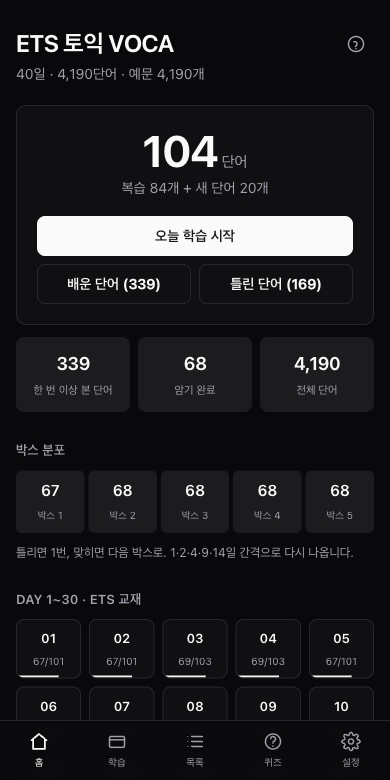
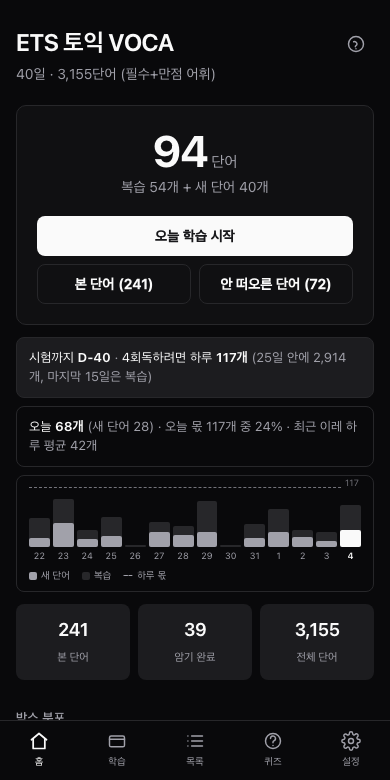
가이드를 지금 앱에 맞췄다
본문 열 곳. 학습 탭이 하던 것으로 돌아간다는 것, 길게 누르기 항목 넷,
목록 방식에서 매긴 줄이 흐려지고 눌렀던 버튼이 남는다는 것과 모름 횟수
태그, 홈의 박스 칸이 목록의 박스 필터로 열린다는 것, 목록의 박스 1~5가
겹쳐 골라진다는 것. 낡은 표현을 걷어냈다. '박스 3 ×' 태그는 이제 박스
버튼이고, '✕2 오답 횟수'는 '모름 2'이고, 음성 시험 버튼은 목소리 수를
알려 주지 않는다. 수치도 맞췄다. 필수 1,662, 추가 1,032, mp3 24MB.

스크린샷 열네 장을 다시 찍었다. 목록 화면은 등급 토글이 아니라 박스
필터를 보여 주고, 카드 화면에는 카드·목록 전환이 있고, 설정에는 음성
진단 줄이 없다. 목록 방식 화면을 새로 넣었다. 매긴 줄 둘과 펼친 줄 하나.
라이트·다크 쌍은 같은 세션에서 data-theme만 바꿔 찍어 단어가 같다.

실제로 쓴 것처럼 보이도록 진도 241개와 2주 기록, 시험일 D-40을 불러오기로
심고 찍었다. 스크린샷은 gstack 브라우저의 --viewport로 390×780.

Claude-Session: https://claude.ai/code/session_018rRY3VEJffFBosdHRxrs2Q

diff --git a/docs/guide.html b/docs/guide.html
@@ -123,7 +123,7 @@ footer a { color:inherit; }
 <p class="lead"><b>ETS 토익 기출 보카</b> DAY 1~30을 그대로 옮긴 앱입니다.
 교재의 <b>필수 어휘</b> · <b>토익 만점 완성</b> 두 단 구성을 따르고, 겹치지 않는 어휘를 추가로 얹었습니다.</p>
 <table class="lead-table">
-  <tr><td><b>DAY 1~30</b></td><td>ETS 토익 기출 보카 · 필수 1,665 + 만점 1,493</td></tr>
+  <tr><td><b>DAY 1~30</b></td><td>ETS 토익 기출 보카 · 필수 1,662 + 만점 1,493</td></tr>
   <tr><td><b>DAY 31~40</b></td><td>추가 어휘 1,032</td></tr>
 </table>
 
@@ -168,8 +168,9 @@ footer a { color:inherit; }
   <b>길게 눌러 전체 다시 보기</b>를 고르세요.</p>
   <p><b>&rsaquo;로 건너뛴 카드는 기록이 남지 않습니다.</b> 그래서 다음에 그 DAY를 누르면
   또 나옵니다. 세션을 끝내면 몇 장을 건너뛰었는지 알려 줍니다.</p>
-  <p>중간에 그만둬도 <b>멈춘 자리부터</b> 이어집니다.
-  DAY를 <b>길게 누르면</b> 전체 다시 보기 · 목록으로 훑기 · 그 DAY만 진도 초기화를 고를 수 있습니다.</p>
+  <p>중간에 그만둬도 <b>멈춘 자리부터</b> 이어집니다. 아래 <b>학습</b> 탭은 하던 것으로 돌아가는 버튼입니다 —
+  DAY 04를 하다 나왔으면 DAY 04로, 하던 게 없으면 오늘 학습을 시작합니다.
+  DAY를 <b>길게 누르면</b> 이어서 외우기 · 전체 다시 보기 · 목록에서 훑어보기 · 그 DAY만 진도 초기화를 고를 수 있습니다.</p>
 </section>
 
 <section id="card">
@@ -179,8 +180,11 @@ footer a { color:inherit; }
     <li><b>카드</b> — 한 장씩. 뒤집어 확인하고 매깁니다. 모름·애매는 몇 장 뒤에 다시 나옵니다.</li>
     <li><b>목록</b> — 단어만 죽 보입니다. 떠올린 뒤 줄을 누르면 뜻·예문이 펼쳐지고
       그 자리에서 <b>모름 · 애매 · 안다 · 이미 앎</b>을 매깁니다. 잘못 눌렀으면 같은 줄의
-      다른 등급을 누르면 됩니다. 앞의 채점을 되돌리고 새로 매깁니다.</li>
+      다른 등급을 누르면 됩니다. 앞의 채점을 되돌리고 새로 매깁니다.
+      매긴 줄은 흐려지고 눌렀던 버튼이 켜진 채 남습니다. 앱을 껐다 켜도 그대로입니다.
+      전에 모름을 누른 적 있는 단어에는 <b>모름 2</b>처럼 횟수가 붙습니다.</li>
   </ul>
+  <figure><picture><source srcset="guide/study-list-dark.png" media="(prefers-color-scheme: dark)"><img src="guide/study-list.png" alt="목록 방식"></picture><figcaption>목록 방식 — 누른 줄만 펼쳐진다</figcaption></figure>
   <div class="note">
     <b>어느 쪽이 나은가</b>
     카드는 한 단어에 집중하게 하고, 목록은 빠릅니다. 처음 보는 단어는 카드로,
@@ -218,9 +222,9 @@ footer a { color:inherit; }
   </div>
   <p>계속 맞히면 보름째 5번 상자에 닿습니다. 홈의 <b>박스 분포</b>에서 오른쪽이 두꺼워지면 잘 되고 있는 것이고,
   1번이 안 줄면 새 단어를 너무 많이 넣고 있다는 뜻입니다.</p>
-  <p><b>박스 칸을 누르면</b> 그 상자에 든 단어가 목록으로 열립니다. 위의
-  <b>본 단어</b>·<b>암기 완료</b> 칸도 마찬가지입니다. 목록에 뜬
-  <b>박스 3 ×</b> 같은 표를 누르면 필터가 풀립니다.</p>
+  <p><b>박스 칸을 누르면</b> 목록이 그 박스로 걸러진 채 열립니다. 목록 위의
+  <b>박스 1~5</b> 버튼이 켜져 있으니, 다시 누르면 풀리고 다른 박스를 겹쳐 고를 수도 있습니다.
+  <b>암기 완료</b> 칸은 박스 5로, <b>본 단어</b> 칸은 목록 위에 <b>본 단어 ×</b> 표로 뜹니다.</p>
   <div class="note">
     <b>상자가 오르지 않는 경우</b>
     기한 전에 미리 보거나 한 세션에서 다시 나온 카드는 안다·애매를 눌러도 상자가 그대로입니다. 모름은 언제나 반영됩니다.
@@ -319,7 +323,8 @@ footer a { color:inherit; }
   등급은 설정의 범위를 따릅니다.
   검색 결과는 <b>가까운 순서</b>로 나옵니다 — 그 단어가 먼저, 그다음이 그 말로 시작하는 단어,
   뜻에 든 것, 예문에만 든 것 순입니다.
-  각 단어에 박스 번호와 <span style="color:var(--again)">✕2</span> 같은 오답 횟수가 붙습니다.</p>
+  각 단어에 박스 번호와 <span style="color:var(--again)">모름 2</span> 같은 횟수가 붙습니다.
+  <b>박스 1~5</b>는 여러 개를 겹쳐 고를 수 있고, 전부 끄면 전체입니다. DAY와 같이 걸 수도 있습니다.</p>
 
   <div class="note">
     <b>&lsquo;틀린&rsquo;은 퀴즈에만 씁니다</b>
@@ -353,14 +358,14 @@ footer a { color:inherit; }
   <b>설정 → 오프라인용 발음 내려받기</b>를 한 번 눌러 두세요.</p>
   <table>
     <tr><th>소리</th><th>무엇</th><th>범위</th></tr>
-    <tr><td><b>녹음</b></td><td>미리 만들어 둔 mp3 (29MB)</td><td>3,154단어</td></tr>
+    <tr><td><b>녹음</b></td><td>미리 만들어 둔 mp3 (24MB)</td><td>3,154단어</td></tr>
     <tr><td><b>내장 음성</b></td><td>기기가 그 자리에서 읽음</td><td>모든 단어</td></tr>
   </table>
-  <p>기본은 <b>녹음 우선</b>입니다. 녹음이 없는 <b>추가 어휘 1,033단어</b>는 내장 음성이 읽습니다.
-  <b>설정 → 발음 → 소리</b>에서 <b>내장 음성만</b>으로 바꾸면 29MB를 받지 않아도 되지만
+  <p>기본은 <b>녹음 우선</b>입니다. 녹음이 없는 <b>추가 어휘 1,032단어</b>는 내장 음성이 읽습니다.
+  <b>설정 → 발음 → 소리</b>에서 <b>내장 음성만</b>으로 바꾸면 24MB를 받지 않아도 되지만
   녹음보다 기계음에 가깝습니다.</p>
   <p>소리가 안 나면 <b>설정 → 발음 → 내장 음성 시험 삼아 들어보기</b>를 눌러 보세요.
-  지원 여부와 기기에 깔린 영어 목소리 수를 알려 줍니다.</p>
+  시험 문장을 한 번 읽어 줍니다. 그래도 조용하면 무음 스위치와 볼륨을 확인하세요.</p>
 </section>
 
 <section id="backup">

diff --git a/docs/sw.js b/docs/sw.js
@@ -5,7 +5,7 @@
  * 하나로 합쳐두면 앱을 고칠 때마다 발음이 날아가 셀룰러로 다시 받게 된다.
  */
 
-const SHELL = 'toeic-voca-08702dfb';
+const SHELL = 'toeic-voca-d2a4cf5f';
 const AUDIO = 'toeic-voca-audio';       // 버전을 붙이지 않는다. 지우면 안 되니까.
 
 /* 이게 없으면 앱이 아예 안 뜬다. 하나라도 실패하면 설치를 실패시킨다. */

diff --git a/docs/app.js b/docs/app.js
@@ -4,7 +4,7 @@
 
 // 배포할 때 bump_sw.py가 docs/ 내용 해시로 채운다. 설정에서 보여 주기 위한 것으로,
 // 기기가 새 버전을 받았는지 눈으로 확인할 수 있다.
-const BUILD = '08702dfb';
+const BUILD = 'd2a4cf5f';
 
 const STORAGE_KEY = 'toeic-voca-progress';
 const SESSION_KEY = 'toeic-voca-session';
